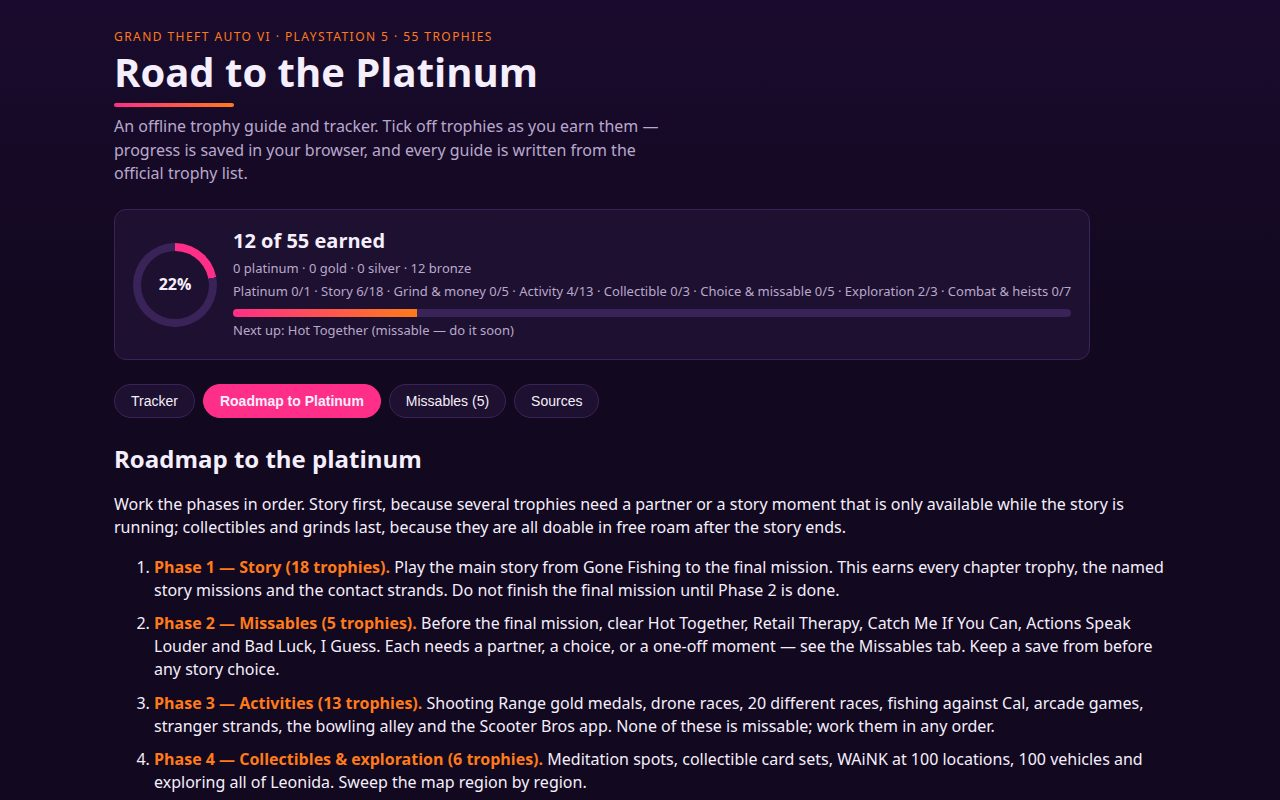
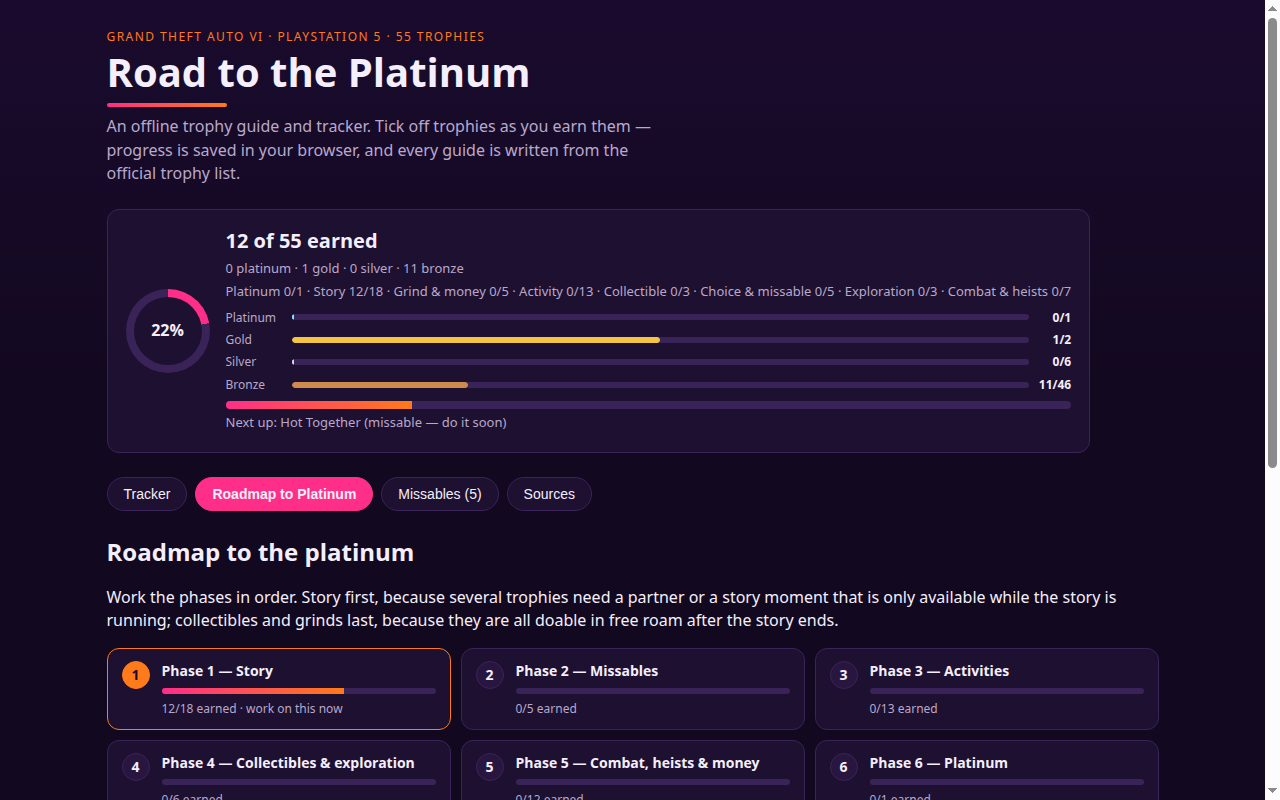
Fix hidden flags to match PSN (28), add per-grade progress and roadmap phase progress
- trophies.json: hidden=true now exactly 28 (1 gold, 27 bronze), matching
  PSN: add Just Like Paradise, Fair Game, Challenging Tank, In The
  Beginning..., Capital Offense, Let's Go Bowling, Personal Best, Ten Pin;
  Hot Together and Retail Therapy are visible on PSN, so unflagged.
- Spoiler setting now hides by the hidden flag, not by kind, and cards
  note 'Hidden on PSN' for unrevealed hidden trophies.
- Progress card gains a per-grade detail panel (earned/total + bar each).
- Roadmap gains per-phase progress cards with the first unfinished
  phase highlighted as the one to work on now.
- Polish: earned cards get a tinted background + 'Earned' chip, tab and
  input hover/focus states, inline empty favicon (no favicon 404).
- Screenshots retaken in headless Chrome (1280x800, all under 256 KiB).

diff --git a/app/app.js b/app/app.js
@@ -30,7 +30,11 @@ function gradeIcon(grade) {
 
 function trophyCard(t) {
   const isEarned = earned.has(t.name);
-  const hidden = spoiler && t.kind === 'story' && !isEarned;
+  // Spoiler hiding follows the official hidden flag, not the kind: 28 trophies
+  // are hidden on PSN (story and chapter trophies, contact-strand finales,
+  // choice trophies, and the deliberately cryptic one-liners), and several of
+  // them are activities or combat, not story.
+  const hidden = spoiler && t.hidden && !isEarned;
   const card = document.createElement('article');
   card.className = 'card' + (isEarned ? ' earned' : '');
   const head = document.createElement('div');
@@ -50,7 +54,7 @@ function trophyCard(t) {
   name.textContent = hidden ? 'Hidden trophy — earn it to reveal' : t.name;
   const desc = document.createElement('p');
   desc.className = 'desc';
-  desc.textContent = hidden ? 'A story trophy. Its name and description stay hidden until you earn it.' : t.description;
+  desc.textContent = hidden ? 'A hidden trophy. Its name and description stay hidden until you earn it.' : t.description;
   title.append(name, desc);
   const badge = document.createElement('span');
   badge.className = 'grade grade-' + t.grade;
@@ -59,7 +63,8 @@ function trophyCard(t) {
   card.append(head);
   const meta = document.createElement('p');
   meta.className = 'meta';
-  meta.textContent = KIND_LABEL[t.kind] + (t.missable ? ' · ⚠ Missable — do before the final mission' : '');
+  meta.textContent = KIND_LABEL[t.kind] + (t.missable ? ' · ⚠ Missable — do before the final mission' : '')
+    + (t.hidden && !isEarned ? ' · Hidden on PSN' : '');
   card.append(meta);
   const guide = document.createElement('p');
   guide.className = 'guide';
@@ -72,6 +77,77 @@ function trophyCard(t) {
   src.textContent = 'Source: ' + t.source;
   card.append(src);
   return card;
+}
+
+// Per-grade progress detail: earned/total and a small bar for each grade, so
+// the player can see at a glance which grade is holding the platinum back.
+function renderGradeDetail(byGrade) {
+  const el = $('gradeDetail');
+  if (!el) return;
+  const totals = {};
+  for (const t of trophies) totals[t.grade] = (totals[t.grade] ?? 0) + 1;
+  el.replaceChildren(...['platinum', 'gold', 'silver', 'bronze'].map((g) => {
+    const row = document.createElement('div');
+    row.className = 'grade-row';
+    const label = document.createElement('span');
+    label.className = 'grade-row-label';
+    label.textContent = GRADE_LABEL[g];
+    const bar = document.createElement('span');
+    bar.className = 'grade-row-bar';
+    const fill = document.createElement('span');
+    fill.className = 'grade-row-fill grade-' + g;
+    fill.style.width = ((byGrade[g] ?? 0) / totals[g]) * 100 + '%';
+    bar.append(fill);
+    const count = document.createElement('span');
+    count.className = 'grade-row-count';
+    count.textContent = (byGrade[g] ?? 0) + '/' + totals[g];
+    row.append(label, bar, count);
+    return row;
+  }));
+}
+
+// Roadmap phase progress: each phase is a slice of the trophy list, so the
+// roadmap can show earned/total per phase and mark the first unfinished one
+// as the phase to work on now.
+const PHASES = [
+  { n: 1, title: 'Story', match: (t) => t.kind === 'story' },
+  { n: 2, title: 'Missables', match: (t) => t.missable },
+  { n: 3, title: 'Activities', match: (t) => t.kind === 'activity' },
+  { n: 4, title: 'Collectibles & exploration', match: (t) => t.kind === 'collectible' || t.kind === 'exploration' },
+  { n: 5, title: 'Combat, heists & money', match: (t) => t.kind === 'combat' || t.kind === 'grind' },
+  { n: 6, title: 'Platinum', match: (t) => t.kind === 'platinum' },
+];
+
+function renderPhaseProgress() {
+  const el = $('phaseProgress');
+  if (!el) return;
+  const firstOpen = PHASES.find((p) => trophies.some((t) => p.match(t) && !earned.has(t.name)));
+  el.replaceChildren(...PHASES.map((p) => {
+    const inPhase = trophies.filter(p.match);
+    const done = inPhase.filter((t) => earned.has(t.name)).length;
+    const item = document.createElement('div');
+    item.className = 'phase' + (done === inPhase.length ? ' phase-done' : '')
+      + (firstOpen && p.n === firstOpen.n ? ' phase-current' : '');
+    const num = document.createElement('span');
+    num.className = 'phase-num';
+    num.textContent = done === inPhase.length ? '✓' : String(p.n);
+    const body = document.createElement('div');
+    body.className = 'phase-body';
+    const title = document.createElement('strong');
+    title.textContent = 'Phase ' + p.n + ' — ' + p.title;
+    const bar = document.createElement('span');
+    bar.className = 'phase-bar';
+    const fill = document.createElement('span');
+    fill.style.width = (done / inPhase.length) * 100 + '%';
+    bar.append(fill);
+    const count = document.createElement('span');
+    count.className = 'phase-count';
+    count.textContent = done + '/' + inPhase.length + ' earned'
+      + (firstOpen && p.n === firstOpen.n ? ' · work on this now' : '');
+    body.append(title, bar, count);
+    item.append(num, body);
+    return item;
+  }));
 }
 
 function filtered() {
@@ -104,6 +180,7 @@ function render() {
   for (const t of trophies) if (earned.has(t.name)) byGrade[t.grade] = (byGrade[t.grade] ?? 0) + 1;
   $('gradeText').textContent = ['platinum', 'gold', 'silver', 'bronze']
     .map((g) => (byGrade[g] ?? 0) + ' ' + g).join(' · ');
+  renderGradeDetail(byGrade);
   // Per-kind progress, so the player can see which part of the game is left.
   let kindLine = document.getElementById('kindText');
   if (!kindLine) {
@@ -126,6 +203,7 @@ function render() {
     ? 'Next up: ' + next.name + (next.missable ? ' (missable — do it soon)' : '')
     : 'All 55 earned — the platinum is yours.';
   missableEl.replaceChildren(...trophies.filter((t) => t.missable).map(trophyCard));
+  renderPhaseProgress();
 }
 
 document.querySelectorAll('.tabs button').forEach((btn) => {

diff --git a/app/index.html b/app/index.html
@@ -4,6 +4,7 @@
 <meta charset="utf-8">
 <meta name="viewport" content="width=device-width, initial-scale=1">
 <title>GTA VI Trophy Guide &amp; Tracker — Road to the Platinum</title>
+<link rel="icon" href="data:,">
 <link rel="stylesheet" href="style.css">
 </head>
 <body>
@@ -18,6 +19,7 @@
     <div>
       <p class="big" id="progressText">0 of 55 earned</p>
       <p class="muted" id="gradeText">0 platinum &middot; 0 gold &middot; 0 silver &middot; 0 bronze</p>
+      <div id="gradeDetail" class="grade-detail" aria-label="Progress by grade"></div>
       <div class="bar"><div id="barFill"></div></div>
       <p class="muted" id="nextUp"></p>
     </div>
@@ -62,7 +64,7 @@
         <option value="unearned">Unearned only</option>
       </select>
     </label>
-    <label class="spoiler"><input id="spoiler" type="checkbox" checked> Hide story spoilers until earned</label>
+    <label class="spoiler"><input id="spoiler" type="checkbox" checked> Hide hidden trophies until earned (28 hidden on PSN)</label>
     <button id="export" type="button">Export progress</button>
     <label class="import">Import progress <input id="import" type="file" accept="application/json"></label>
     <button id="reset" type="button">Reset</button>
@@ -74,6 +76,7 @@
 <section id="tab-roadmap" class="tabpage">
   <h2>Roadmap to the platinum</h2>
   <p>Work the phases in order. Story first, because several trophies need a partner or a story moment that is only available while the story is running; collectibles and grinds last, because they are all doable in free roam after the story ends.</p>
+  <div id="phaseProgress" class="phases" aria-label="Progress per roadmap phase"></div>
   <ol class="roadmap">
     <li><strong>Phase 1 — Story (18 trophies).</strong> Play the main story from Gone Fishing to the final mission. This earns every chapter trophy, the named story missions and the contact strands. Do not finish the final mission until Phase 2 is done.</li>
     <li><strong>Phase 2 — Missables (5 trophies).</strong> Before the final mission, clear Hot Together, Retail Therapy, Catch Me If You Can, Actions Speak Louder and Bad Luck, I Guess. Each needs a partner, a choice, or a one-off moment — see the Missables tab. Keep a save from before any story choice.</li>
@@ -97,6 +100,7 @@
     <li>Names, descriptions and grades: the official GTA VI trophy list as published on PSN (psnprofiles.com/trophies/43531-grand-theft-auto-vi) and Exophase (exophase.com/game/grand-theft-auto-vi-psn/trophies/), frozen 2026-11-18 — 55 trophies: 1 platinum, 2 gold, 6 silver, 46 bronze.</li>
     <li>Guides: written in this guide's own words from the official descriptions. Each trophy's guide cites the official description as its source. No text is copied from any other guide.</li>
     <li>Kinds (story, collectible, activity, combat, exploration, grind, choice) and the missable flags are derived from the official descriptions — a trophy is flagged missable when its description ties it to a partner, a choice, or a one-off moment.</li>
+    <li>Hidden flags: 28 of the 55 trophies are hidden on PSN (1 gold, 27 bronze) — the chapter and mission trophies, the five contact-strand finales, the choice trophies, and the trophies whose descriptions are deliberately cryptic. The spoiler setting hides exactly those 28 until you earn them.</li>
     <li>This guide is an unofficial fan-made tracker. Grand Theft Auto and GTA are trademarks of Rockstar Games; no Rockstar logo or artwork is used here.</li>
   </ul>
 </section>

diff --git a/app/style.css b/app/style.css
@@ -75,6 +75,31 @@ h1::after {
 .muted { color: var(--muted); font-size: 13px; margin: 4px 0; }
 .bar { height: 8px; background: #3a2358; border-radius: 4px; overflow: hidden; margin: 8px 0 4px; }
 .bar div { height: 100%; background: linear-gradient(90deg, var(--pink), var(--orange)); width: 0; }
+/* Per-grade progress detail: one row per grade with its own small bar. */
+.grade-detail { display: grid; gap: 5px; margin: 8px 0 2px; }
+.grade-row { display: flex; align-items: center; gap: 8px; font-size: 12px; }
+.grade-row-label { width: 58px; flex: none; color: var(--muted); }
+.grade-row-bar { flex: 1; height: 6px; background: #3a2358; border-radius: 3px; overflow: hidden; }
+.grade-row-fill { display: block; height: 100%; border-radius: 3px; }
+.grade-row-fill.grade-platinum { background: var(--plat); }
+.grade-row-fill.grade-gold { background: var(--gold); }
+.grade-row-fill.grade-silver { background: var(--silver); }
+.grade-row-fill.grade-bronze { background: var(--bronze); }
+.grade-row-count { width: 34px; flex: none; text-align: right; font-weight: 700; }
+/* Roadmap phase progress: numbered phase cards with a bar each; the first
+   unfinished phase is highlighted as the one to work on now. */
+.phases { display: grid; grid-template-columns: repeat(auto-fill, minmax(300px, 1fr)); gap: 10px; margin: 14px 0 6px; }
+.phase { display: flex; gap: 12px; align-items: flex-start; background: var(--panel); border: 1px solid var(--line); border-radius: 12px; padding: 12px 14px; }
+.phase-current { border-color: var(--orange); }
+.phase-done { border-color: var(--pink); }
+.phase-num { flex: none; width: 28px; height: 28px; border-radius: 50%; display: grid; place-items: center; font-weight: 700; font-size: 14px; background: var(--panel2); border: 1px solid var(--line); }
+.phase-current .phase-num { background: var(--orange); border-color: var(--orange); color: #1a0b2e; }
+.phase-done .phase-num { background: var(--pink); border-color: var(--pink); color: #fff; }
+.phase-body { flex: 1; display: grid; gap: 6px; }
+.phase-body strong { font-size: 14px; }
+.phase-bar { display: block; height: 6px; background: #3a2358; border-radius: 3px; overflow: hidden; }
+.phase-bar span { display: block; height: 100%; background: linear-gradient(90deg, var(--pink), var(--orange)); }
+.phase-count { font-size: 12px; color: var(--muted); }
 .tabs {
   display: flex;
   gap: 8px;
@@ -140,11 +165,14 @@ h1::after {
   transition: border-color .15s ease, transform .15s ease;
 }
 .card:hover { border-color: var(--pink); transform: translateY(-1px); }
-.card.earned { border-color: var(--pink); }
+.card.earned { border-color: var(--pink); background: linear-gradient(180deg, #241338, var(--panel)); }
+.card.earned .meta::after { content: " · ✓ Earned"; color: var(--pink); }
 button:focus-visible, a:focus-visible, input:focus-visible, select:focus-visible {
   outline: 2px solid var(--orange);
   outline-offset: 2px;
 }
+.tabs button:hover { border-color: var(--pink); }
+.controls input[type="search"]:focus, .controls select:focus { border-color: var(--pink); outline: none; }
 .card-head { display: flex; gap: 10px; align-items: flex-start; }
 .card-head input[type="checkbox"] { width: 20px; height: 20px; margin-top: 4px; flex: none; accent-color: var(--pink); cursor: pointer; }
 .card-head h3 { margin: 0; font-size: 17px; line-height: 1.25; flex: 1; }

diff --git a/main.ts b/main.ts
@@ -4,13 +4,18 @@
 // and screenshots/ from beside this file to /output and writes /output/dossier.json, the summary the judge reads (your
 // screenshots, the first load's files and bytes, and your source), with the vendored make.fun library. Leave
 // vendor/makefun-frontend.ts as it is: the scorer requires dossier.json to be byte for byte what its own copy writes.
+// Screenshots: 4 JPEGs in screenshots/ (cover first by name) — retake them with a headless browser whenever the UI
+// changes, and keep each under 256 KiB with the long side at most 1280 px and the short side at least 480 px.
 //
 // Built entry: "Road to the Platinum" — a full trophy guide and tracker. app/ holds the
 // tracker (checklist over all 55 official trophies, localStorage progress, export/import,
-// filters by grade/kind/status, text search, spoiler setting), a 6-phase roadmap to the
-// platinum, a missables page (5 trophies to clear before the final mission), and a sources
-// page. app/data/trophies.json carries the official list with an original guide, kind,
-// missable and hidden flag per trophy, all written from the official descriptions.
+// filters by grade/kind/status, text search, spoiler setting that hides the 28 trophies
+// hidden on PSN until earned, and a per-grade progress panel with a bar for each grade),
+// a 6-phase roadmap to the platinum with earned/total progress per phase, a missables
+// page (5 trophies to clear before the final mission), and a sources page.
+// app/data/trophies.json carries the official list with an original guide, kind,
+// missable and hidden flag per trophy, all written from the official descriptions;
+// the hidden flags match PSN exactly: 28 hidden (1 gold, 27 bronze).
 //
 // Serve it locally with `node serve.ts`, then open http://localhost:8080.
 // Outside the grader's container, MAKEFUN_OUTPUT_DIR stands in for /output:

diff --git a/README.md b/README.md
@@ -9,14 +9,19 @@ An offline, open-source trophy guide and tracker for Grand Theft Auto VI on Play
 ## What it is
 
 - **Tracker** — a checklist over all 55 official trophies (1 platinum, 2 gold, 6 silver, 46 bronze), with progress saved in the browser (localStorage), export to JSON and import back, filters by grade, kind and earned status, and text search.
+- **Per-grade progress** — the progress card breaks progress down by grade (earned/total with a small bar each), so you can see at a glance which grade is holding the platinum back.
 - **Guides** — a short guide in the author's own words for every trophy, each citing the official description as its source. No text is copied from any other guide.
-- **Roadmap** — a 6-phase path to the platinum: story, missables, activities, collectibles & exploration, combat/heists/money, then the platinum itself.
+- **Roadmap** — a 6-phase path to the platinum: story, missables, activities, collectibles & exploration, combat/heists/money, then the platinum itself. Each phase shows its own earned/total progress, and the first unfinished phase is highlighted as the one to work on now.
 - **Missables** — the 5 trophies that depend on a partner, a story choice, or a one-off moment, flagged so you clear them before the final mission.
-- **Spoiler setting** — hides the names and descriptions of story trophies until you earn them (on by default).
+- **Spoiler setting** — hides the names and descriptions of the 28 trophies that are hidden on PSN (1 gold, 27 bronze) until you earn them (on by default).
 
 ## Sources
 
-Names, descriptions and grades are the official GTA VI trophy list as published on PSN and Exophase (frozen 2026-11-18). Kinds and missable flags are derived from the official descriptions. This is an unofficial fan-made tracker; no Rockstar logo or artwork is used.
+Names, descriptions and grades are the official GTA VI trophy list as published on PSN and Exophase (frozen 2026-11-18). Kinds and missable flags are derived from the official descriptions. The hidden flags match PSN exactly: 28 hidden (1 gold, 27 bronze) — the chapter and mission trophies, the five contact-strand finales, the choice trophies, and the trophies whose one-line descriptions are deliberately cryptic (Fair Game, Challenging Tank, In The Beginning…, Capital Offense, Let’s Go Bowling, Personal Best, Ten Pin). Hot Together and Retail Therapy are visible on PSN, so they are not flagged hidden. This is an unofficial fan-made tracker; no Rockstar logo or artwork is used.
+
+## Screenshots
+
+`screenshots/` holds 4 JPEGs of the app running in a browser (cover first by name): the tracker with the per-grade progress panel, the roadmap with per-phase progress, the missables tab, and the tracker filtered to silver with spoilers off. Retake them whenever the UI changes — each must stay under 256 KiB, long side at most 1280 px, short side at least 480 px.
 
 ## Run it
 
